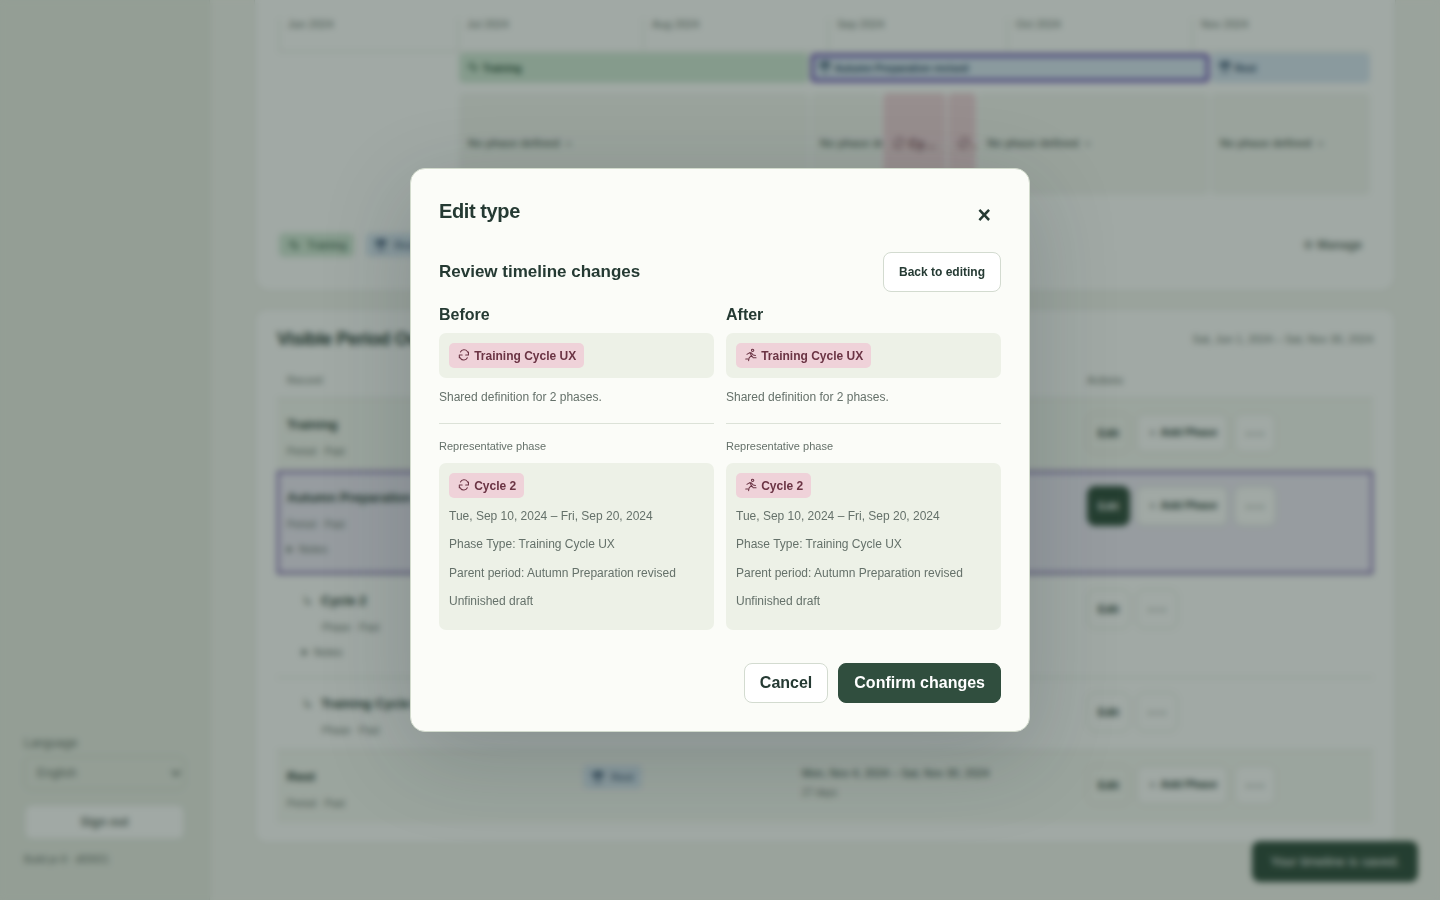
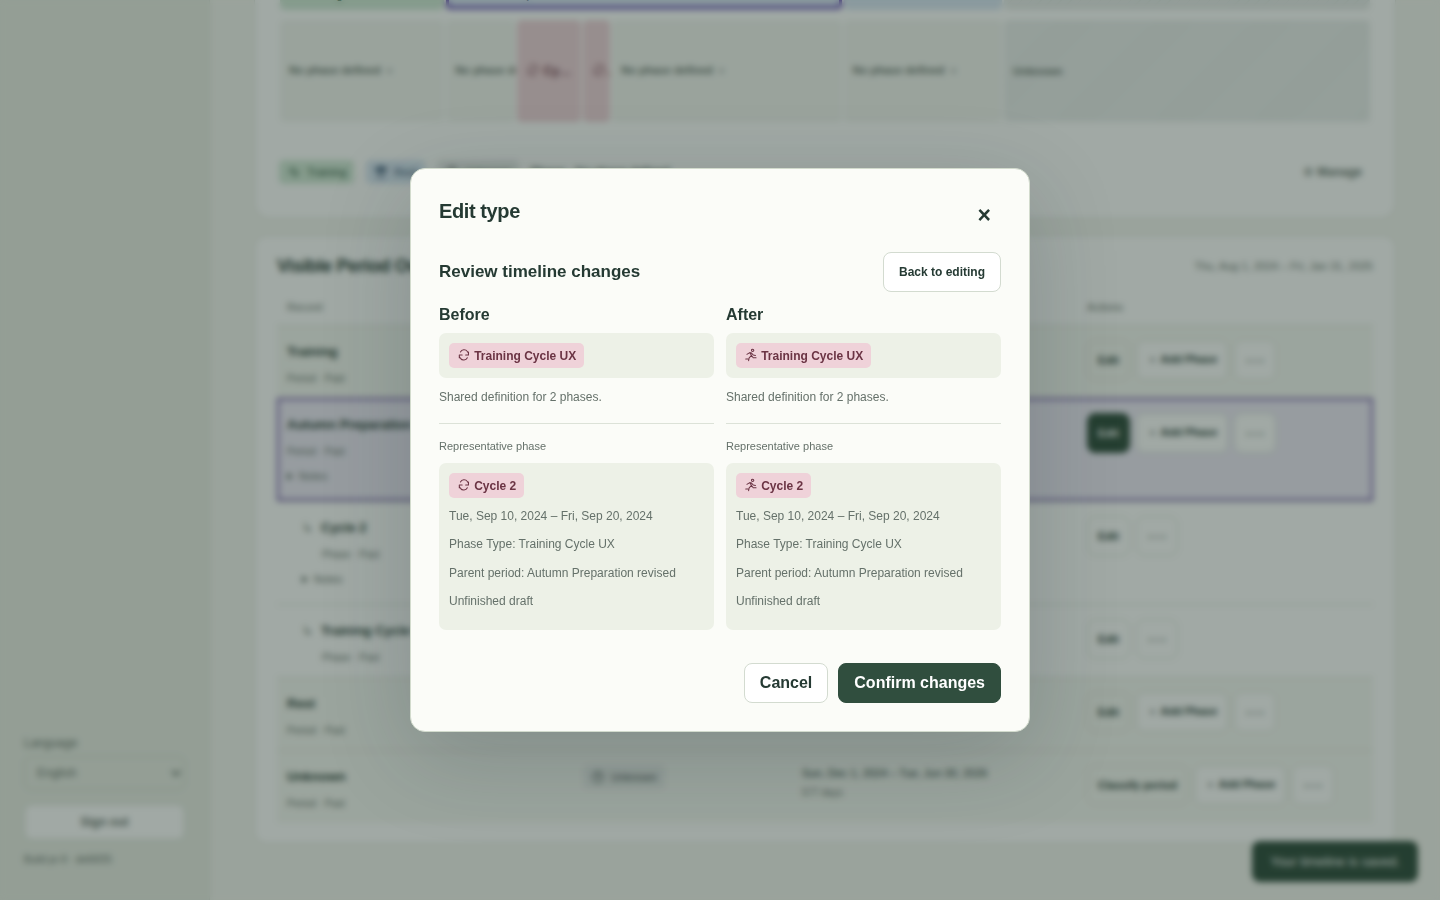
Update visual previews

diff --git a/index.html b/index.html
@@ -1,4 +1,4 @@
 <!doctype html><html lang="cs"><meta charset="utf-8"><meta name="viewport" content="width=device-width,initial-scale=1"><title>Hybrid Training · UI náhledy</title>
 <style>body{font:17px/1.6 system-ui;max-width:1100px;margin:auto;padding:24px;background:#10221b;color:#e3eee7}section{border:1px solid #42604f;border-radius:12px;padding:20px;margin:20px 0}a{color:#c3ed9e}nav{display:flex;flex-wrap:wrap;gap:12px}nav a{padding:12px;border:1px solid #42604f;border-radius:8px}code{overflow-wrap:anywhere}p{color:#b1c7b9}</style>
 <h1>Hybrid Training · UI náhledy</h1><p>Pouze syntetická demonstrační data. Náhledy vznikají po úspěšných testech zdrojového commitu. Identifikace níže patří zachycenému buildu.</p>
-<section><h2>Větev main</h2><p>Verze main · <code>6a807236f0fc1255531d387dc6b5cc53ab70f688</code><br>Vygenerováno 2026-11-15T11:05:17.873000+00:00</p><nav><a href="main/timeline-periods.png">Training, Rest and Unknown — no phases</a><a href="main/phase-type-picker.png">Phase Type — color and semantic icon picker</a><a href="main/timeline-phases.png">Aligned Period strip and proportional Phases</a><a href="main/phase-detail.png">Selected phase and its parent context</a><a href="main/phase-type-lifecycle.png">Archive or explicitly convert historical phases</a><a href="main/phase-type-convert.png">Convert phases — explicit destination and affected count</a><a href="main/training-pause.png">Pause Training — explicit phase shortening preview</a><a href="main/timeline-czech.png">Czech — Periods and Phases</a></nav><p><a href="main/manifest.json">manifest.json</a></p></section><section><h2>PR #9</h2><p>Verze pr-9 · <code>df26f21ab70c54d3be83b336257b9b92c2bd4ee8</code><br>Vygenerováno 2026-11-15T15:14:03.961000+00:00</p><nav><a href="pr-9/timeline-periods.png">Training, Rest and Unknown — no phases</a><a href="pr-9/phase-type-picker.png">Phase Type — color and semantic icon picker</a><a href="pr-9/timeline-phases.png">Aligned Period strip and proportional Phases</a><a href="pr-9/phase-detail.png">Selected phase and its parent context</a><a href="pr-9/phase-type-lifecycle.png">Archive or explicitly convert historical phases</a><a href="pr-9/phase-type-convert.png">Convert phases — explicit destination and affected count</a><a href="pr-9/training-pause.png">Pause Training — explicit phase shortening preview</a><a href="pr-9/today-twelve-months.png">Today from 2024 retains twelve months</a><a href="pr-9/timeline-toolbar-dark.png">Timeline toolbar — twelve months in dark mode</a><a href="pr-9/selected-period.png">Selected Period synchronized with the visible-window table</a><a href="pr-9/phase-type-from-draft.png">Phase Type creation from an unfinished Phase</a><a href="pr-9/selected-phase.png">Selected Phase in the hierarchical overview</a><a href="pr-9/unified-phase-editor.png">Unified Phase editor from its table row</a><a href="pr-9/phase-create-timeline.png">Create a Phase from uncovered calendar time</a><a href="pr-9/visible-overview.png">Visible Period Overview — hierarchy and actual dates</a><a href="pr-9/unified-period-editor.png">Unified Period editor from its table row</a><a href="pr-9/period-neighbor-preview.png">Atomic Period edit and both neighboring boundaries</a><a href="pr-9/contextual-advanced-actions.png">Advanced operations belong to their table row</a><a href="pr-9/type-color-preview.png">Phase Type color — state-specific Before and After</a><a href="pr-9/type-icon-preview.png">Phase Type icon — state-specific Before and After</a><a href="pr-9/type-name-preview.png">Phase Type name — state-specific Before and After</a><a href="pr-9/type-conversion-preview.png">Type conversion — original and destination appearances</a><a href="pr-9/timeline-czech.png">Česká časová osa a přehled</a></nav><p><a href="pr-9/manifest.json">manifest.json</a></p></section><footer>Galerie aktualizována 2026-11-15T15:14:25+00:00 · <a href="https://github.com/radeklazok/hybrid-training-preview">Zdroj galerie</a></footer></html>
+<section><h2>Větev main</h2><p>Verze main · <code>6a807236f0fc1255531d387dc6b5cc53ab70f688</code><br>Vygenerováno 2026-11-15T11:05:17.873000+00:00</p><nav><a href="main/timeline-periods.png">Training, Rest and Unknown — no phases</a><a href="main/phase-type-picker.png">Phase Type — color and semantic icon picker</a><a href="main/timeline-phases.png">Aligned Period strip and proportional Phases</a><a href="main/phase-detail.png">Selected phase and its parent context</a><a href="main/phase-type-lifecycle.png">Archive or explicitly convert historical phases</a><a href="main/phase-type-convert.png">Convert phases — explicit destination and affected count</a><a href="main/training-pause.png">Pause Training — explicit phase shortening preview</a><a href="main/timeline-czech.png">Czech — Periods and Phases</a></nav><p><a href="main/manifest.json">manifest.json</a></p></section><section><h2>PR #9</h2><p>Verze pr-9 · <code>de66f253cfa654efff7d9977e8e08d6c42692fe5</code><br>Vygenerováno 2026-11-15T15:53:25.831000+00:00</p><nav><a href="pr-9/timeline-periods.png">Training, Rest and Unknown — no phases</a><a href="pr-9/phase-type-picker.png">Phase Type — color and semantic icon picker</a><a href="pr-9/timeline-phases.png">Aligned Period strip and proportional Phases</a><a href="pr-9/phase-detail.png">Selected phase and its parent context</a><a href="pr-9/phase-type-lifecycle.png">Archive or explicitly convert historical phases</a><a href="pr-9/phase-type-convert.png">Convert phases — explicit destination and affected count</a><a href="pr-9/training-pause.png">Pause Training — explicit phase shortening preview</a><a href="pr-9/today-twelve-months.png">Today from 2024 retains twelve months</a><a href="pr-9/timeline-toolbar-dark.png">Timeline toolbar — twelve months in dark mode</a><a href="pr-9/selected-period.png">Selected Period synchronized with the visible-window table</a><a href="pr-9/phase-type-from-draft.png">Phase Type creation from an unfinished Phase</a><a href="pr-9/selected-phase.png">Selected Phase in the hierarchical overview</a><a href="pr-9/unified-phase-editor.png">Unified Phase editor from its table row</a><a href="pr-9/phase-create-timeline.png">Create a Phase from uncovered calendar time</a><a href="pr-9/visible-overview.png">Visible Period Overview — hierarchy and actual dates</a><a href="pr-9/unified-period-editor.png">Unified Period editor from its table row</a><a href="pr-9/period-neighbor-preview.png">Atomic Period edit and both neighboring boundaries</a><a href="pr-9/contextual-advanced-actions.png">Advanced operations belong to their table row</a><a href="pr-9/type-color-preview.png">Phase Type color — state-specific Before and After</a><a href="pr-9/type-icon-preview.png">Phase Type icon — state-specific Before and After</a><a href="pr-9/type-name-preview.png">Phase Type name — state-specific Before and After</a><a href="pr-9/type-conversion-preview.png">Type conversion — original and destination appearances</a><a href="pr-9/sidebar-light.png">Readable sidebar navigation — light mode</a><a href="pr-9/timeline-select-open.png">Timeline select open — light</a><a href="pr-9/sidebar-dark.png">Readable sidebar navigation — dark mode</a><a href="pr-9/sidebar-dark-focus.png">Dark sidebar navigation — keyboard focus</a><a href="pr-9/timeline-select-dark-open.png">Timeline select open — dark</a><a href="pr-9/timeline-select-czech-open.png">Český výběr rozsahu — otevřený</a><a href="pr-9/timeline-czech.png">Česká časová osa a přehled</a></nav><p><a href="pr-9/manifest.json">manifest.json</a></p></section><footer>Galerie aktualizována 2026-11-15T15:53:48+00:00 · <a href="https://github.com/radeklazok/hybrid-training-preview">Zdroj galerie</a></footer></html>
